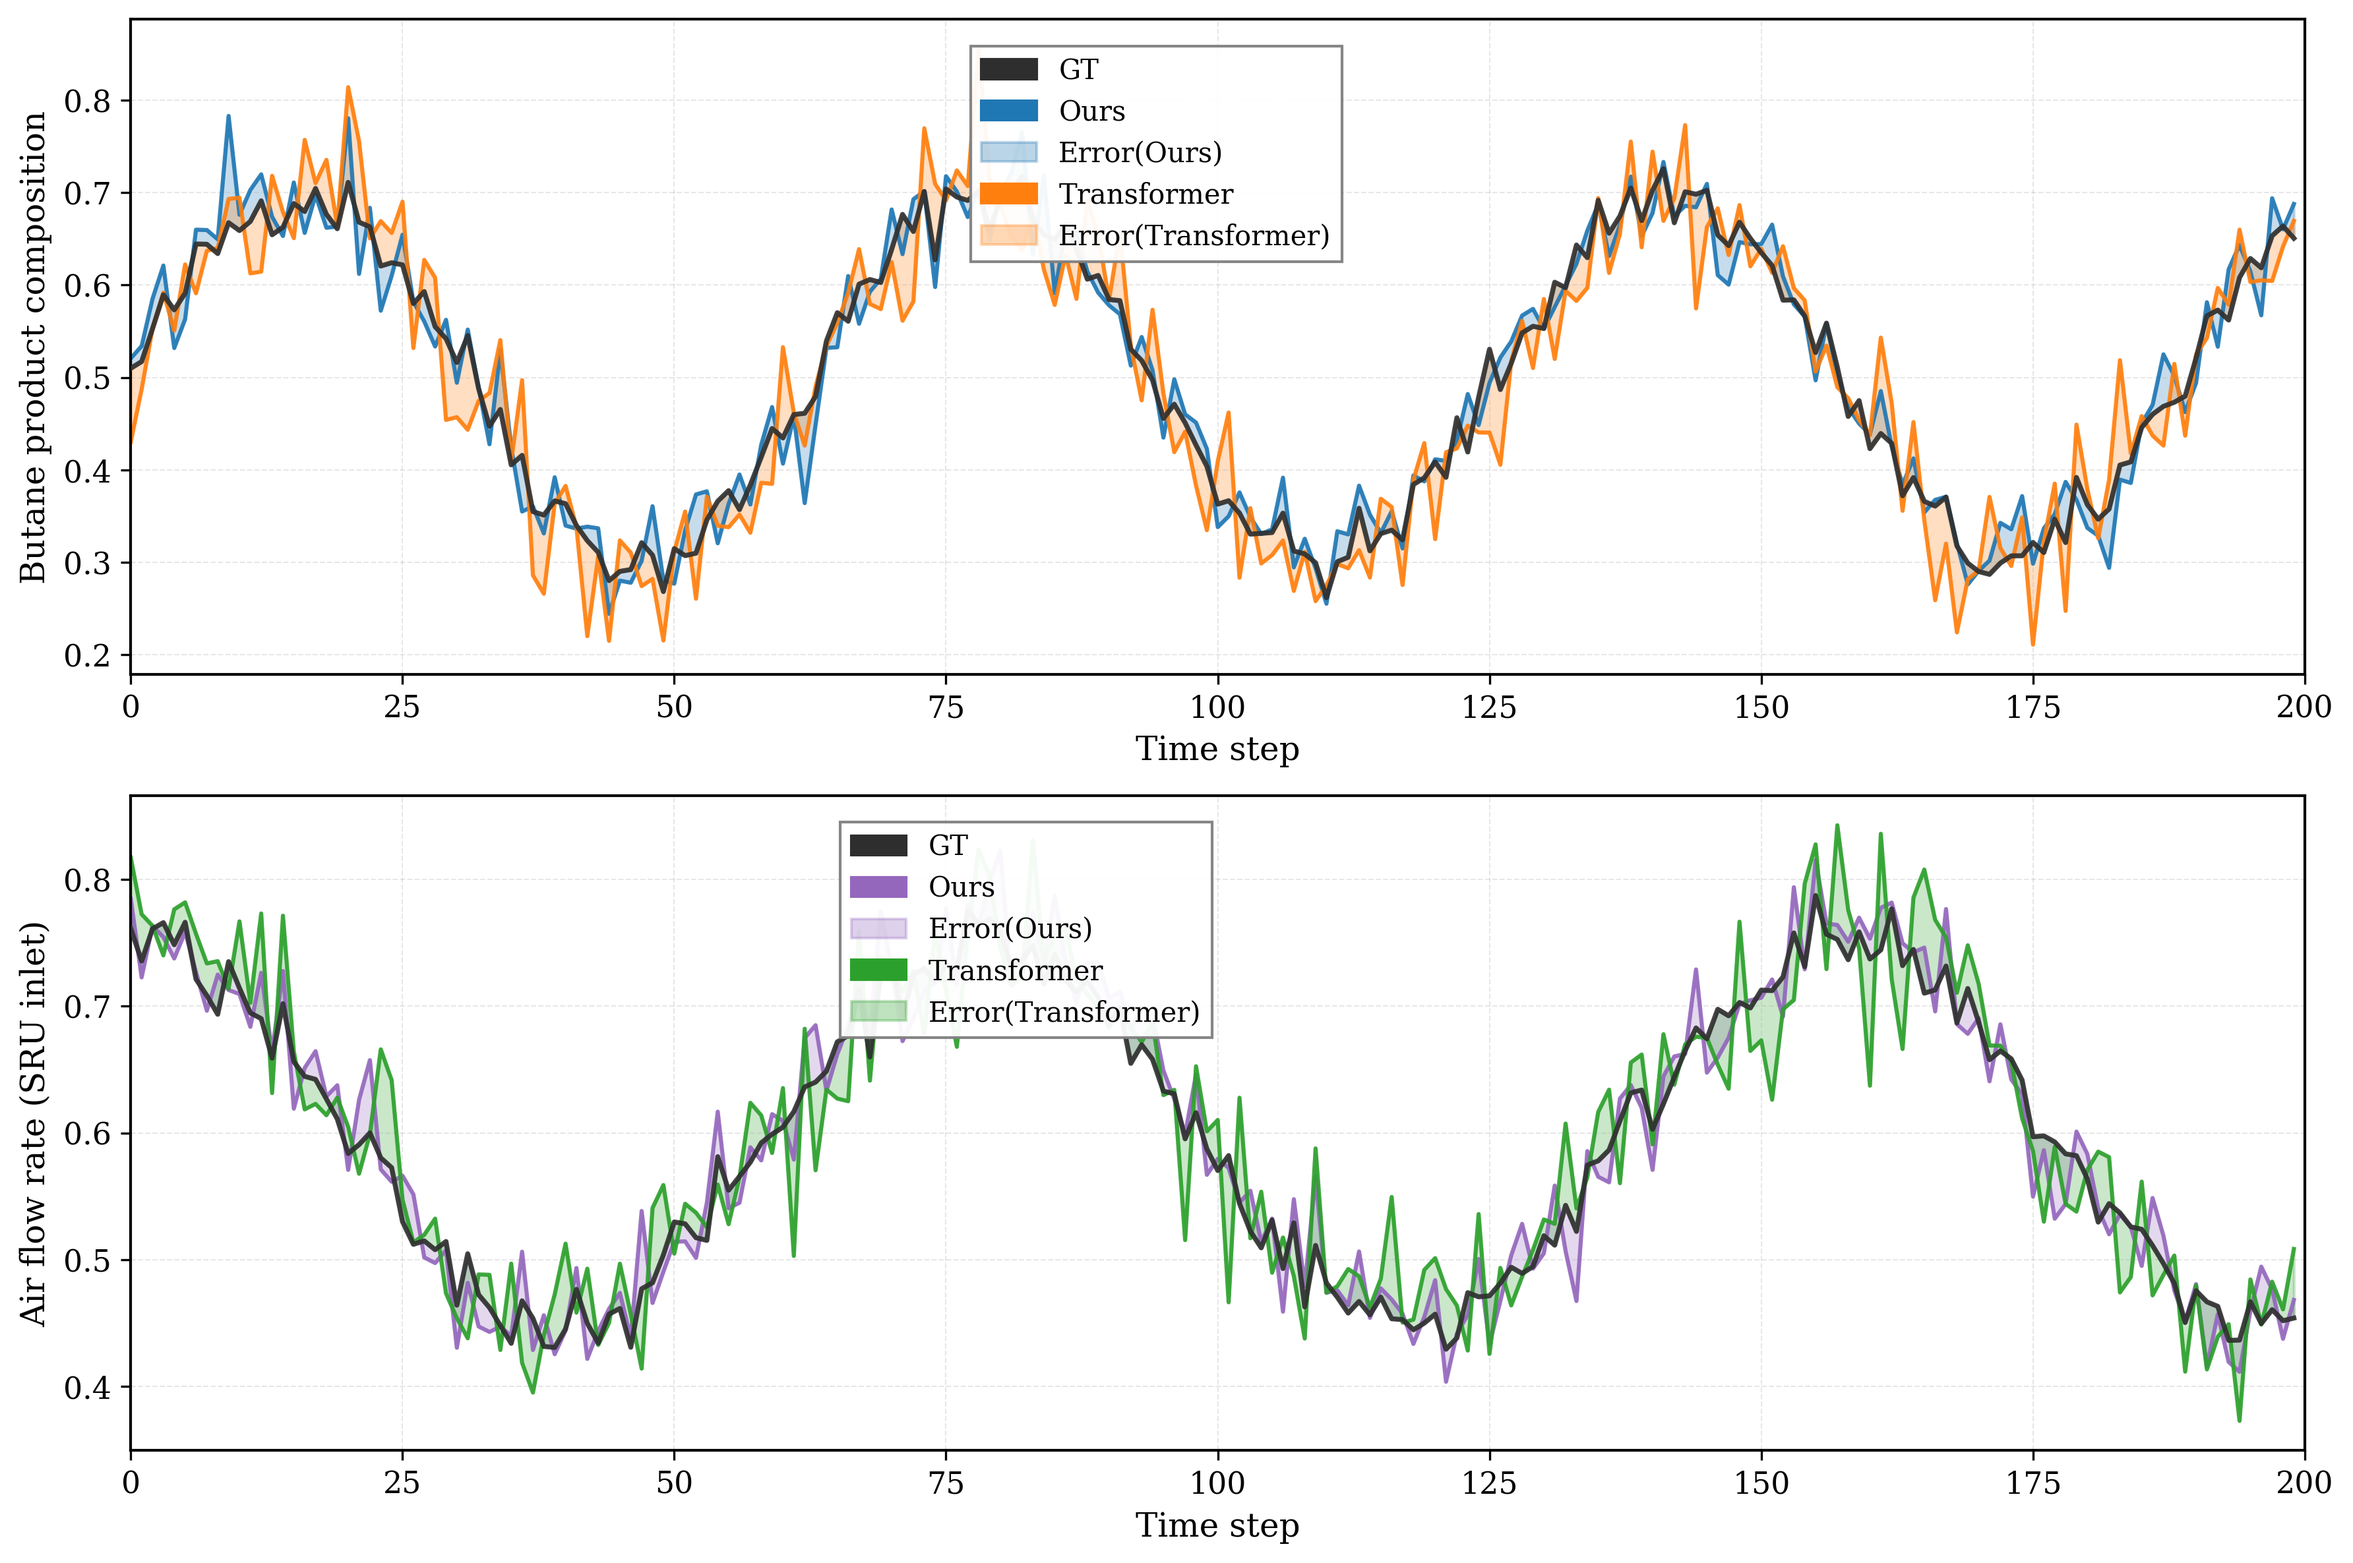
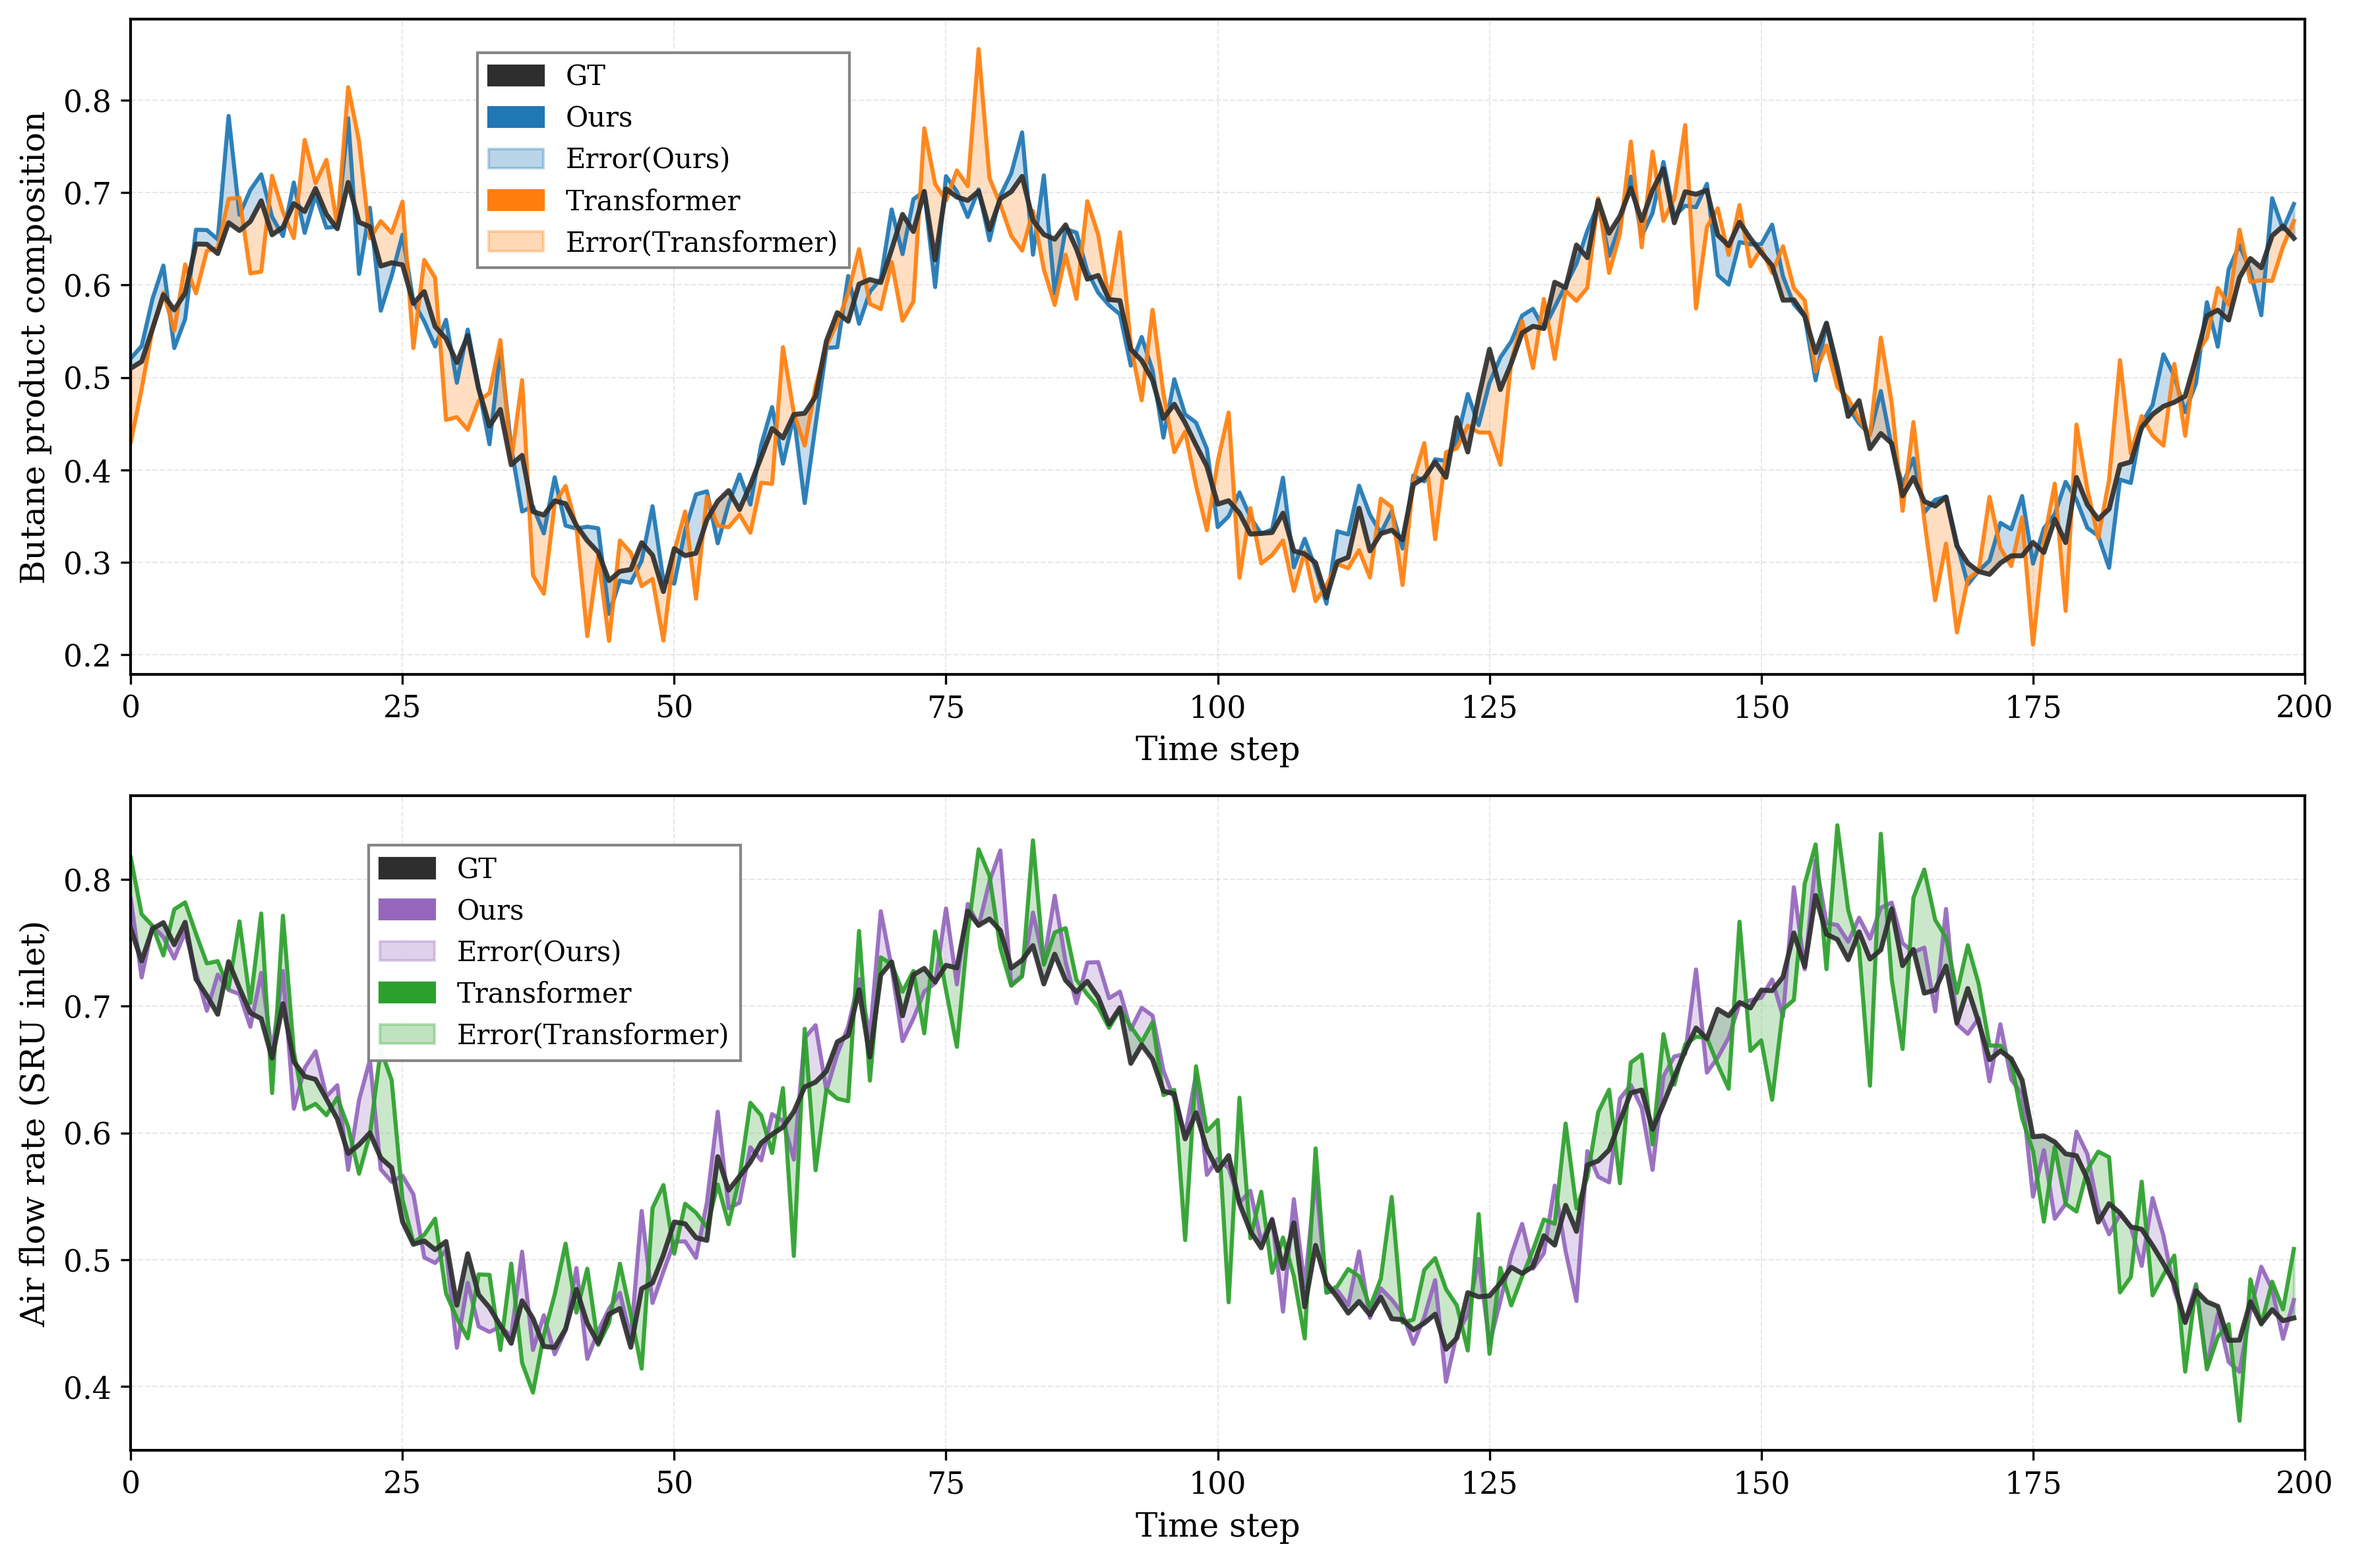
Strictly constrain legends within designated red box bounds
- Reposition legends with center anchoring for precise control:
  * Debutanizer: bbox_to_anchor=(0.245, 0.785) with loc='center'
  * SRU: bbox_to_anchor=(0.195, 0.760) with loc='center'
- Ensure legends stay completely within red box boundaries
- No parts of legends extend beyond designated areas
- Maintain all other formatting unchanged

https://claude.ai/code/session_01BQCR6Qu1MAjogPoW9tWFwx

diff --git a/plot_comparison.py b/plot_comparison.py
@@ -82,7 +82,7 @@ ax1.set_xlim(0, 200)
 ax1.grid(True, alpha=0.3, linestyle='--', linewidth=0.5)
 ax1.tick_params(labelsize=11)
 
-# Custom legend with fill patches - positioned right to avoid overlapping curves
+# Custom legend with fill patches - strictly within red box bounds
 legend_elements_deb = [
     Patch(facecolor=color_gt_deb, edgecolor=color_gt_deb, label='GT'),
     Patch(facecolor=color_ours_deb, edgecolor=color_ours_deb, label='Ours'),
@@ -90,7 +90,7 @@ legend_elements_deb = [
     Patch(facecolor=color_transformer_deb, edgecolor=color_transformer_deb, label='Transformer'),
     Patch(facecolor=color_transformer_deb, edgecolor=color_transformer_deb, alpha=0.3, label='Error(Transformer)')
 ]
-ax1.legend(handles=legend_elements_deb, loc='upper left', bbox_to_anchor=(0.38, 0.98),
+ax1.legend(handles=legend_elements_deb, loc='center', bbox_to_anchor=(0.245, 0.785),
           fontsize=10, framealpha=0.95, edgecolor='gray', fancybox=False)
 
 # ══════════════════════════════════════════════════════════════
@@ -125,7 +125,7 @@ ax2.set_xlim(0, 200)
 ax2.grid(True, alpha=0.3, linestyle='--', linewidth=0.5)
 ax2.tick_params(labelsize=11)
 
-# Custom legend with fill patches - positioned right to avoid overlapping curves
+# Custom legend with fill patches - strictly within red box bounds
 legend_elements_sru = [
     Patch(facecolor=color_gt_sru, edgecolor=color_gt_sru, label='GT'),
     Patch(facecolor=color_ours_sru, edgecolor=color_ours_sru, label='Ours'),
@@ -133,7 +133,7 @@ legend_elements_sru = [
     Patch(facecolor=color_transformer_sru, edgecolor=color_transformer_sru, label='Transformer'),
     Patch(facecolor=color_transformer_sru, edgecolor=color_transformer_sru, alpha=0.3, label='Error(Transformer)')
 ]
-ax2.legend(handles=legend_elements_sru, loc='upper left', bbox_to_anchor=(0.32, 0.98),
+ax2.legend(handles=legend_elements_sru, loc='center', bbox_to_anchor=(0.195, 0.760),
           fontsize=10, framealpha=0.95, edgecolor='gray', fancybox=False)
 
 # ══════════════════════════════════════════════════════════════
